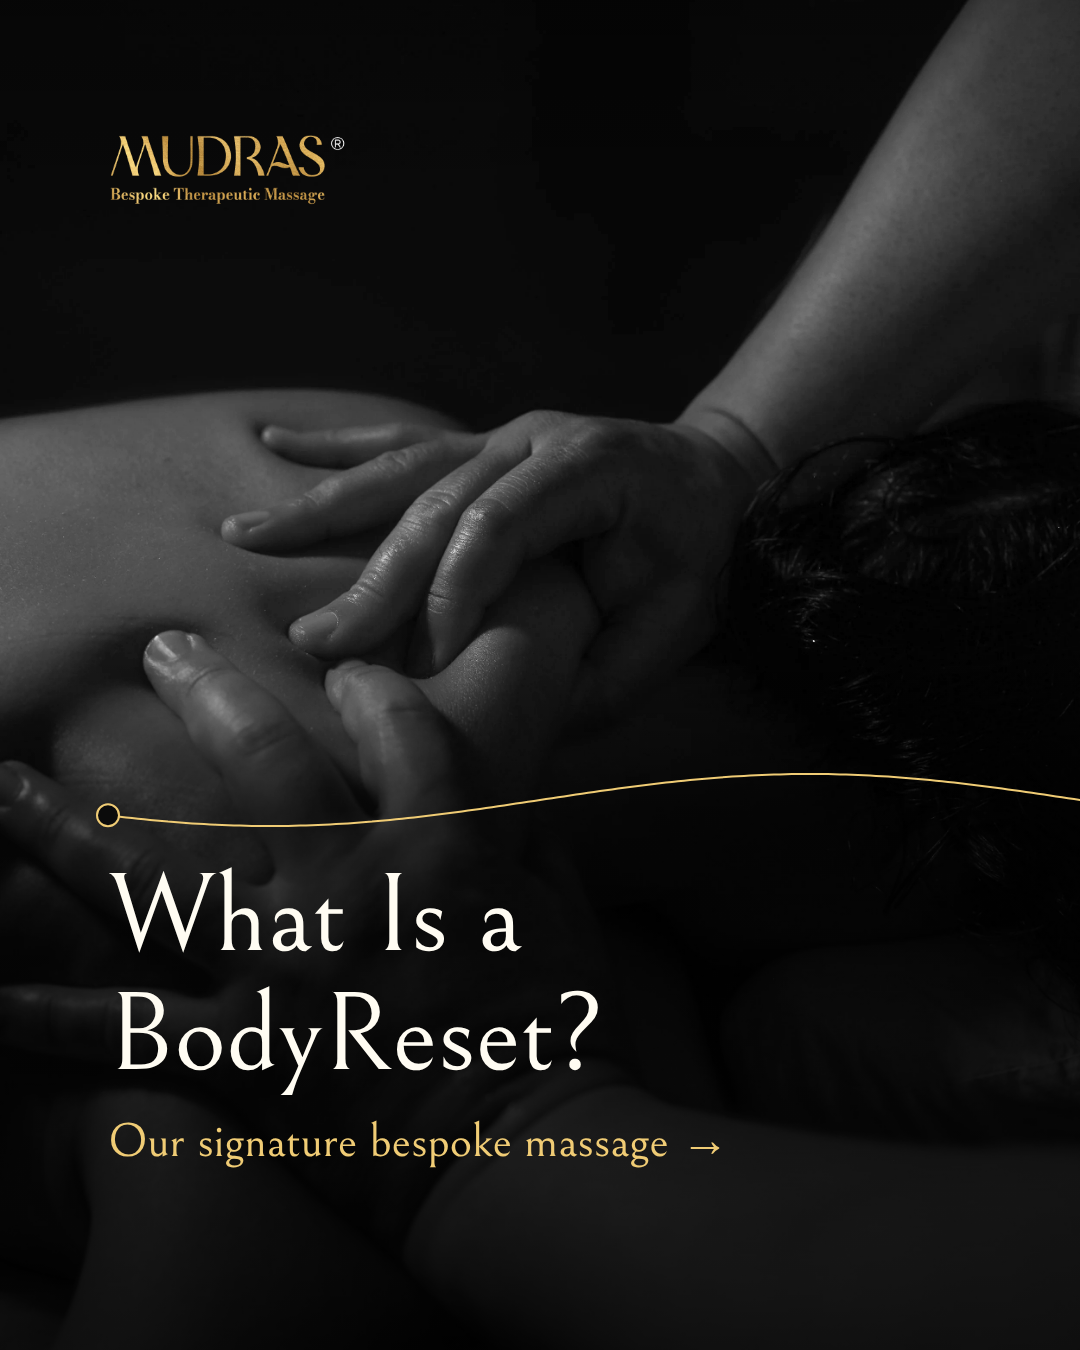
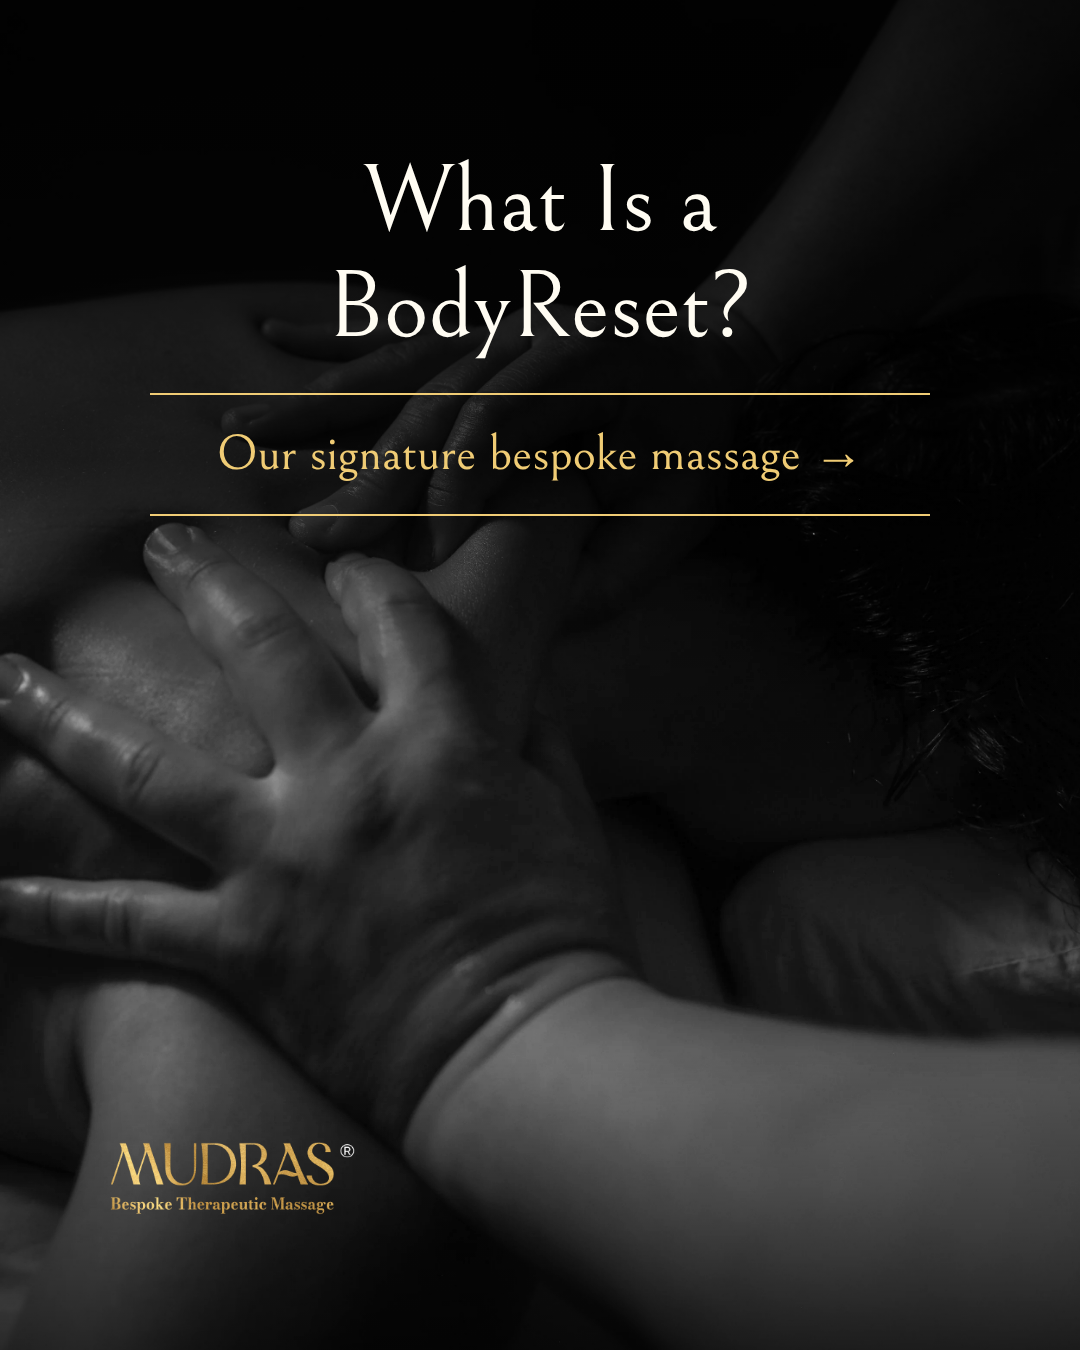
Mudras BodyReset carousel: new layout without numerals
Claude-Session: https://claude.ai/code/session_01WnXcuRrGu4zGnnykNFmZUS

diff --git a/deliverables/mudras/source/design/bodyreset-carousel-v2.html b/deliverables/mudras/source/design/bodyreset-carousel-v2.html
@@ -1,0 +1,85 @@
+<!doctype html>
+<html><head><meta charset="utf-8">
+<link href="https://fonts.googleapis.com/css2?family=Bellefair&family=Raleway:wght@500;600&display=block" rel="stylesheet">
+<style>
+/* Mudras brand tokens, taken from mudras.com theme CSS. Black/gold/white with the client's own black-and-white
+   studio photos. Layout follows the brand's post "Stretching explores range.": copy centred at the top between
+   two gold rules over the dark part of the photo, the photo fully visible below, gold logo bottom-left. */
+:root{
+  --gold:#F0CC75;        /* accent  hsl(42.44 80.39% 70%) */
+  --white:#FFFCF2;       /* white   hsl(46.15 100% 97.45%) */
+  --serif:'Bellefair', serif;     /* stand-in for orpheus-pro (Adobe Fonts) */
+  --sans:'Raleway', sans-serif;   /* site body font */
+}
+*{box-sizing:border-box;margin:0;padding:0}
+body{background:#888;display:flex;flex-direction:column;gap:40px;padding:40px;align-items:flex-start}
+body.notext .t{visibility:hidden}
+.ab{position:relative;overflow:hidden;background:#000;color:var(--white)}
+.p45{width:1080px;height:1350px}
+.photo{position:absolute;inset:0;background-repeat:no-repeat;background-size:cover;filter:grayscale(1) contrast(1.04) brightness(1.18)}
+.shade{position:absolute;inset:0;background:linear-gradient(180deg,rgba(0,0,0,.82) 0%,rgba(0,0,0,.66) 34%,rgba(0,0,0,.15) 50%,rgba(0,0,0,0) 58%,rgba(0,0,0,0) 78%,rgba(0,0,0,.62) 100%)}
+.copy{position:absolute;left:150px;right:150px;top:150px;text-align:center}
+.rule{height:2px;background:var(--gold);margin:32px 0}
+.serif{font-family:var(--serif);font-weight:400;line-height:1.1}
+.caps{font-family:var(--sans);font-weight:600;text-transform:uppercase;letter-spacing:.28em;color:var(--gold)}
+.logo{position:absolute;left:108px;bottom:135px;width:250px}
+.logo img{width:100%;display:block}
+</style></head><body>
+
+<div class="ab p45" id="br2_s1">
+  <div class="photo" style="background-image:url(../img/br_s1_hands.jpg);background-position:50% 70%"></div>
+  <div class="shade"></div>
+  <div class="copy">
+    <div class="serif t" style="font-size:96px">What Is a BodyReset?</div>
+    <div class="rule"></div>
+    <div class="serif t" style="font-size:50px;color:var(--gold)">Our signature bespoke massage &rarr;</div>
+    <div class="rule"></div>
+  </div>
+  <div class="logo t"><img src="../site/orig_Group_1487669750.png"></div>
+</div>
+<div class="ab p45" id="br2_s2">
+  <div class="photo" style="background-image:url(../img/br_s2_assess.jpg);background-position:50% 80%"></div>
+  <div class="shade"></div>
+  <div class="copy">
+    <div class="caps t" style="font-size:22px;margin-bottom:26px">Step 1</div><div class="serif t" style="font-size:88px">Understand</div>
+    <div class="rule"></div>
+    <div class="serif t" style="font-size:48px;line-height:1.2">We start with your goals,<br>your body and your day</div>
+    <div class="rule"></div>
+  </div>
+  
+</div>
+<div class="ab p45" id="br2_s3">
+  <div class="photo" style="background-image:url(../img/br_s3_tool.jpg);background-position:50% 70%"></div>
+  <div class="shade"></div>
+  <div class="copy">
+    <div class="caps t" style="font-size:22px;margin-bottom:26px">Step 2</div><div class="serif t" style="font-size:88px">Work With Intention</div>
+    <div class="rule"></div>
+    <div class="serif t" style="font-size:48px;line-height:1.2">Techniques chosen for you,<br>not from a script</div>
+    <div class="rule"></div>
+  </div>
+  
+</div>
+<div class="ab p45" id="br2_s4">
+  <div class="photo" style="background-image:url(../img/br_s4_back.jpg);background-position:50% 75%"></div>
+  <div class="shade"></div>
+  <div class="copy">
+    <div class="caps t" style="font-size:22px;margin-bottom:26px">Step 3</div><div class="serif t" style="font-size:88px">Adapt Throughout</div>
+    <div class="rule"></div>
+    <div class="serif t" style="font-size:48px;line-height:1.2">Your feedback guides<br>every minute</div>
+    <div class="rule"></div>
+  </div>
+  
+</div>
+<div class="ab p45" id="br2_s5">
+  <div class="photo" style="background-image:url(../img/br_s5_calm.jpg);background-position:50% 80%"></div>
+  <div class="shade"></div>
+  <div class="copy" style="left:108px;right:108px">
+    <div class="serif t" style="font-size:66px;white-space:nowrap">No two bodies are the same.</div>
+    <div class="rule"></div>
+    <div class="serif t" style="font-size:66px;color:var(--gold);white-space:nowrap">No two BodyResets are either.</div>
+    <div class="rule"></div>
+    <div class="caps t" style="font-size:22px;color:var(--white)">Mudras NYC</div>
+  </div>
+  <div class="logo t"><img src="../site/orig_Group_1487669750.png"></div>
+</div>
+</body></html>

diff --git a/deliverables/mudras/instagram-bodyreset-carousel/slides-and-image-links.md b/deliverables/mudras/instagram-bodyreset-carousel/slides-and-image-links.md
@@ -2,10 +2,11 @@
 
 Brand palette: black, gold and white, with the client's own black-and-white studio photos (no faces).
 
-Creative idea:
-- One continuous gold thread runs across all five slides and lines up when swiped.
-- Each step has a marker dot on the thread, and a large outlined gold numeral (1, 2, 3) stands on it.
-- The thread ends in a filled gold dot above the closing line.
+Layout follows the brand's post "Stretching explores range.":
+- the copy is centred at the top between two gold rules, over the dark part of the photo
+- the photo is fully visible below
+- the gold logo sits bottom-left on the first and last slides
+- there are no step numerals
 
 | Slide | Text | Image | Link |
 |---|---|---|---|
